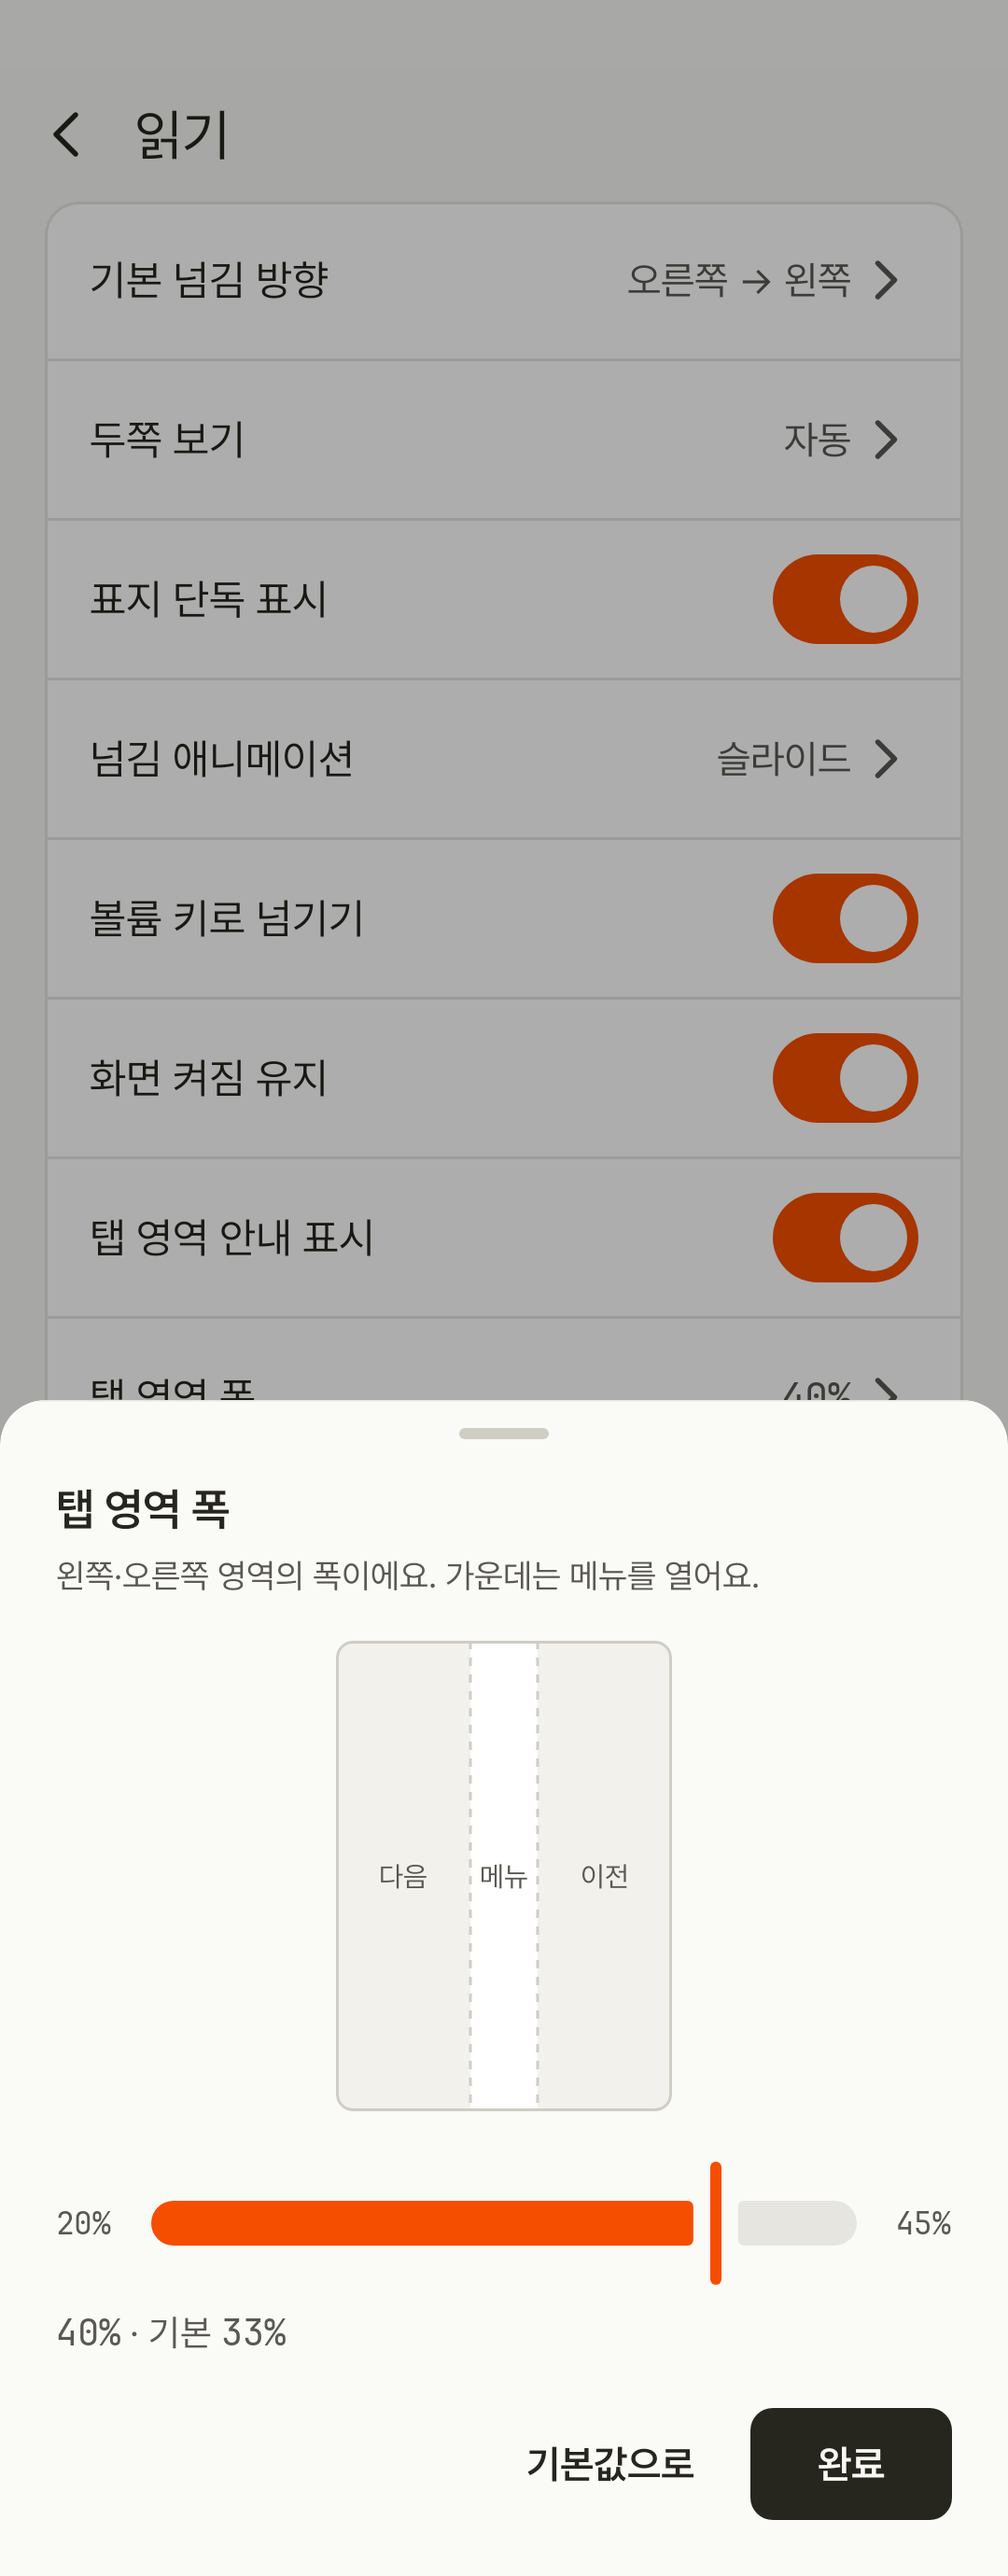
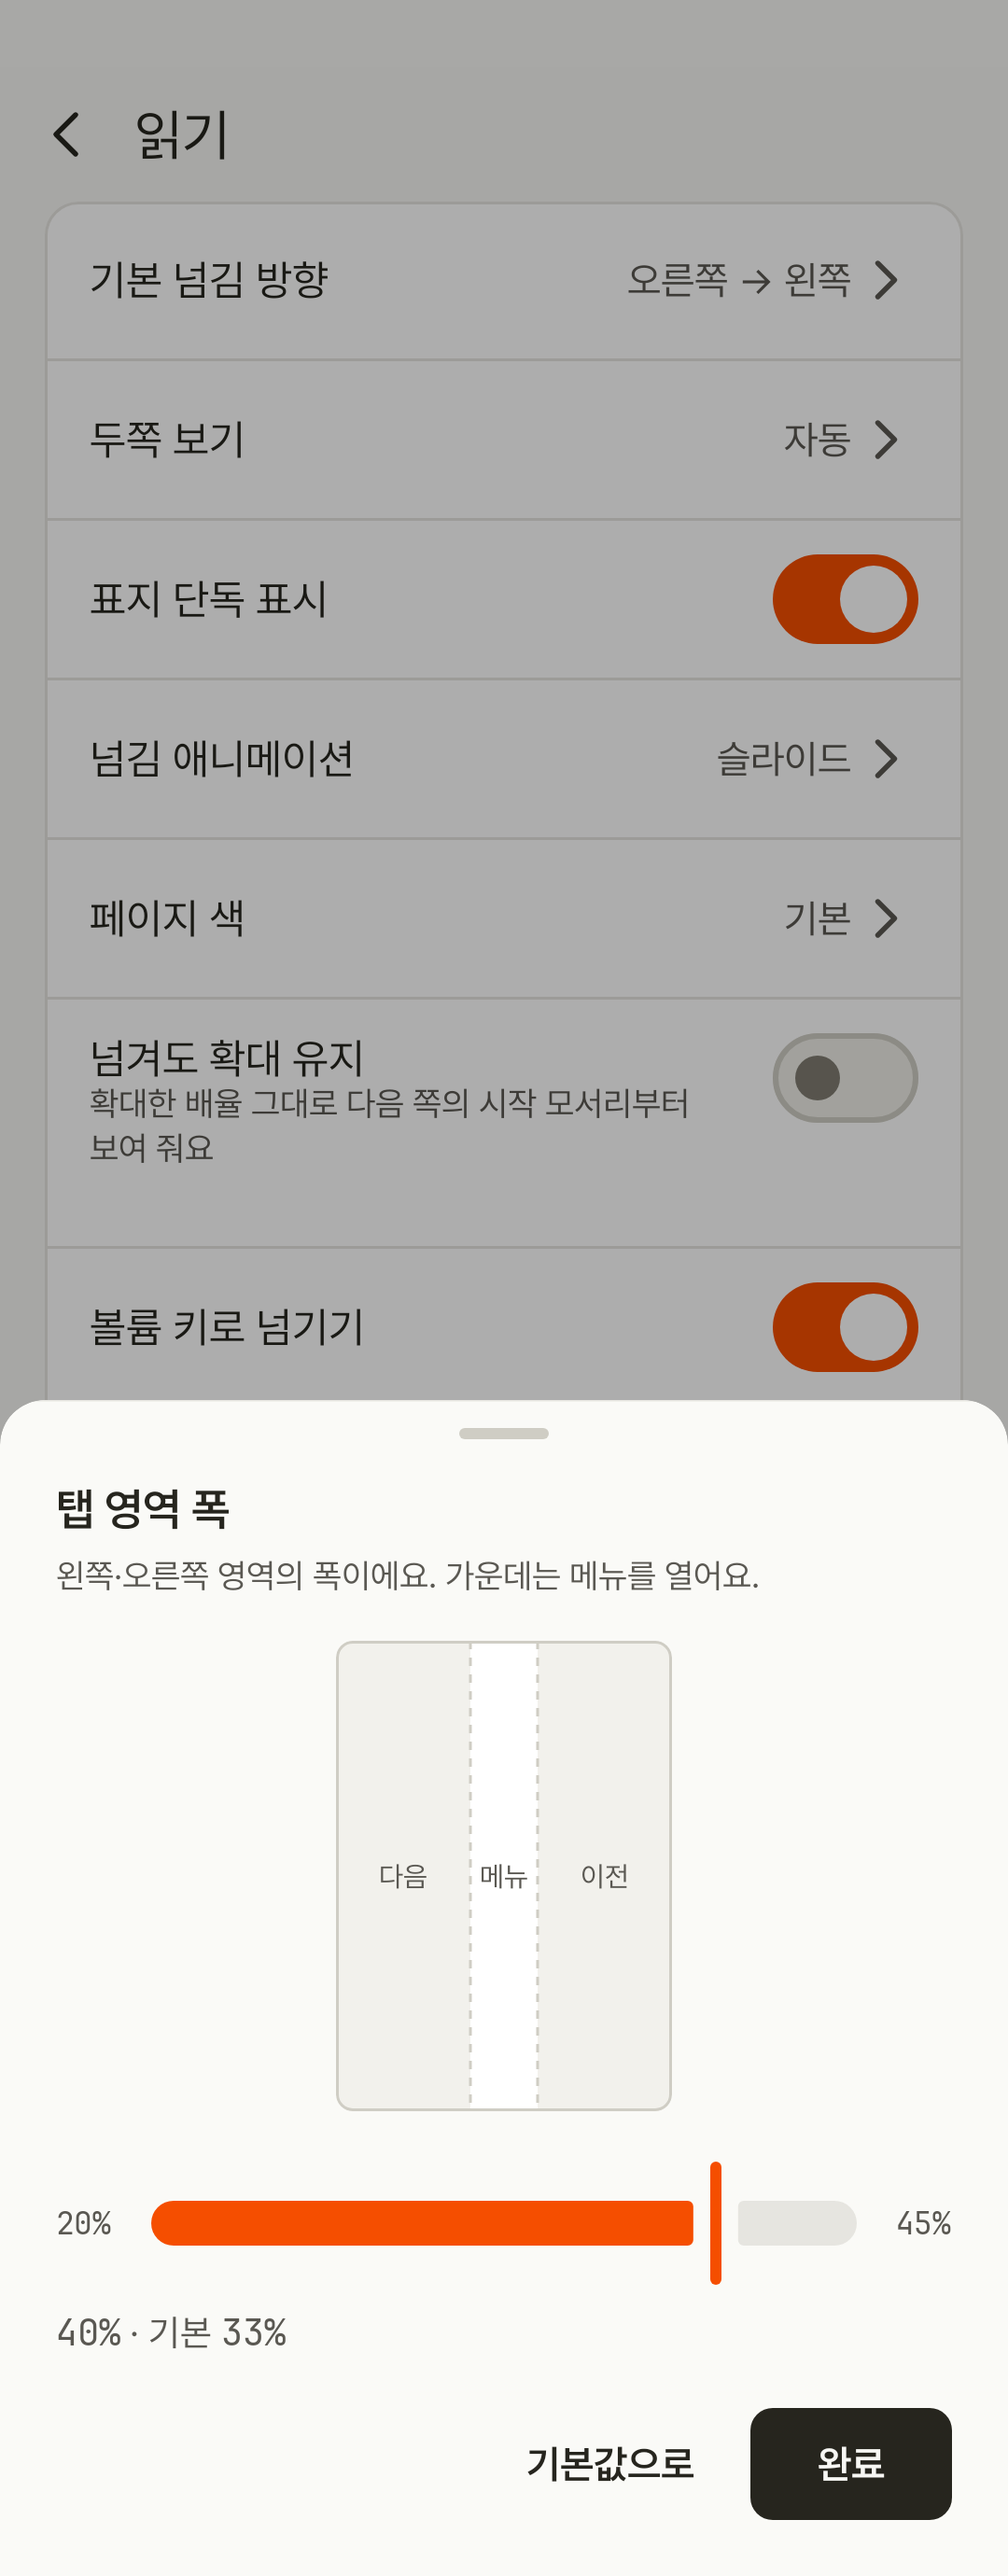
fix(settings): rename display mode to page color
Rename the reading setting to 페이지 색 / Page color with original,
inverted and sepia options, and add screenshot coverage for the row,
the choice dialog and the filtered reader page.

Re-record the reading settings and tap-width baselines shifted by the
row.

diff --git a/app/src/test/java/org/parkjw/apps/pdfbook/screenshot/PageColorScreenshotsTest.kt b/app/src/test/java/org/parkjw/apps/pdfbook/screenshot/PageColorScreenshotsTest.kt
@@ -1,0 +1,130 @@
+package org.parkjw.apps.pdfbook.screenshot
+
+import androidx.compose.foundation.layout.fillMaxSize
+import androidx.compose.foundation.pager.rememberPagerState
+import androidx.compose.ui.Modifier
+import androidx.test.ext.junit.runners.AndroidJUnit4
+import com.github.takahirom.roborazzi.captureRoboImage
+import org.junit.Assume.assumeTrue
+import org.junit.Before
+import org.junit.Test
+import org.junit.runner.RunWith
+import org.parkjw.apps.pdfbook.ReaderScreen
+import org.parkjw.apps.pdfbook.settings.AppSettings
+import org.parkjw.apps.pdfbook.settings.DisplayMode
+import org.parkjw.apps.pdfbook.settings.SettingsScreen
+import org.parkjw.apps.pdfbook.settings.SettingsSubScreen
+import org.parkjw.apps.pdfbook.settings.ThemeMode
+import org.parkjw.apps.pdfbook.spreads
+import org.parkjw.apps.pdfbook.ui.theme.ReaderBackground
+import org.robolectric.annotation.Config
+import org.robolectric.annotation.GraphicsMode
+
+@RunWith(AndroidJUnit4::class)
+@GraphicsMode(GraphicsMode.Mode.NATIVE)
+@Config(sdk = [37])
+class PageColorScreenshotsTest {
+    @Before
+    fun onlyWhenRecordingOrVerifying() {
+        assumeTrue(
+            System.getProperty("roborazzi.test.record") == "true" ||
+                System.getProperty("roborazzi.test.verify") == "true" ||
+                System.getProperty("roborazzi.test.compare") == "true",
+        )
+    }
+
+    @Test
+    @Config(qualifiers = FOLDED_QUALIFIERS)
+    fun pageColorRowLightFolded() {
+        captureSettings("settings-page-color-light-folded.png", dark = false)
+    }
+
+    @Test
+    @Config(qualifiers = FOLDED_NIGHT_QUALIFIERS)
+    fun pageColorRowDarkFolded() {
+        captureSettings("settings-page-color-dark-folded.png", dark = true)
+    }
+
+    @Test
+    @Config(qualifiers = FOLDED_EN_QUALIFIERS)
+    fun pageColorRowLightFoldedEn() {
+        captureSettings("settings-page-color-light-folded-en.png", dark = false)
+    }
+
+    @Test
+    @Config(qualifiers = FOLDED_QUALIFIERS)
+    fun pageColorDialogLightFolded() {
+        captureSettings("settings-page-color-dialog-light-folded.png", dark = false, dialog = true)
+    }
+
+    @Test
+    @Config(qualifiers = FOLDED_NIGHT_QUALIFIERS)
+    fun pageColorDialogDarkFolded() {
+        captureSettings("settings-page-color-dialog-dark-folded.png", dark = true, dialog = true)
+    }
+
+    @Test
+    @Config(qualifiers = FOLDED_EN_QUALIFIERS)
+    fun pageColorDialogLightFoldedEn() {
+        captureSettings("settings-page-color-dialog-light-folded-en.png", dark = false, dialog = true)
+    }
+
+    @Test
+    @Config(qualifiers = FOLDED_QUALIFIERS)
+    fun readerInvertedLightFolded() {
+        captureReader("reader-page-color-inverted-light-folded.png", DisplayMode.Invert)
+    }
+
+    @Test
+    @Config(qualifiers = FOLDED_QUALIFIERS)
+    fun readerSepiaLightFolded() {
+        captureReader("reader-page-color-sepia-light-folded.png", DisplayMode.Sepia)
+    }
+
+    private fun captureSettings(file: String, dark: Boolean, dialog: Boolean = false) {
+        captureRoboImage(file) {
+            ScreenshotTheme(dark) {
+                SettingsScreen(
+                    settings = AppSettings(
+                        themeMode = if (dark) ThemeMode.Dark else ThemeMode.Light,
+                        displayMode = DisplayMode.Invert,
+                    ),
+                    onSettingsChange = {},
+                    versionName = "0.3.0",
+                    versionCode = 4L,
+                    modifier = Modifier.fillMaxSize(),
+                    initialSubScreen = SettingsSubScreen.Reading,
+                    initiallyShowDisplayChoice = dialog,
+                )
+            }
+        }
+    }
+
+    private fun captureReader(file: String, displayMode: DisplayMode) {
+        val pageCount = 12
+        val pageSpreads = spreads(pageCount, twoPage = false, coverAlone = true)
+        captureRoboImage(file) {
+            ScreenshotTheme(dark = false, systemBarsColor = ReaderBackground) {
+                ReaderScreen(
+                    renderer = SolidPageBitmaps(
+                        pageCount = pageCount,
+                        pageColor = 0xFFF7F2E8.toInt(),
+                        accentColor = 0xFF3D5A80.toInt(),
+                    ),
+                    pagerState = rememberPagerState(pageCount = { pageSpreads.size }),
+                    spreads = pageSpreads,
+                    title = "샘플 책",
+                    pageCount = pageCount,
+                    currentPage = 1,
+                    twoPage = false,
+                    onBack = {},
+                    onDirectionChange = {},
+                    overlayVisible = true,
+                    showTapZoneGuide = false,
+                    displayMode = displayMode,
+                    modifier = Modifier.fillMaxSize(),
+                )
+            }
+        }
+    }
+}

diff --git a/app/src/main/java/org/parkjw/apps/pdfbook/settings/SettingsScreen.kt b/app/src/main/java/org/parkjw/apps/pdfbook/settings/SettingsScreen.kt
@@ -102,6 +102,7 @@ fun SettingsScreen(
     initialSubScreen: SettingsSubScreen = SettingsSubScreen.Main,
     initiallyShowStartChoice: Boolean = false,
     initiallyShowTapWidthSheet: Boolean = false,
+    initiallyShowDisplayChoice: Boolean = false,
 ) {
     var subScreen by rememberSaveable { mutableStateOf(initialSubScreen.name) }
     var showStartChoice by rememberSaveable { mutableStateOf(initiallyShowStartChoice) }
@@ -112,6 +113,7 @@ fun SettingsScreen(
             onSettingsChange = onSettingsChange,
             onBack = { subScreen = SettingsSubScreen.Main.name },
             initiallyShowTapWidthSheet = initiallyShowTapWidthSheet,
+            initiallyShowDisplayChoice = initiallyShowDisplayChoice,
             modifier = modifier,
         )
         SettingsSubScreen.OpenSource.name -> OpenSourceLicensesScreen(
@@ -342,10 +344,13 @@ private fun ReadingSettingsScreen(
     onSettingsChange: ((AppSettings) -> AppSettings) -> Unit,
     onBack: () -> Unit,
     initiallyShowTapWidthSheet: Boolean,
+    initiallyShowDisplayChoice: Boolean,
     modifier: Modifier = Modifier,
 ) {
     BackHandler(onBack = onBack)
-    var choice by rememberSaveable { mutableStateOf<String?>(null) }
+    var choice by rememberSaveable {
+        mutableStateOf<String?>(if (initiallyShowDisplayChoice) SettingsChoice.Display.name else null)
+    }
     var showTapWidthSheet by rememberSaveable { mutableStateOf(initiallyShowTapWidthSheet) }
     val directionOptions = listOf(
         ReadingDirection.RTL to stringResource(R.string.settings_direction_rtl),

diff --git a/docs/agents/feature-map.md b/docs/agents/feature-map.md
@@ -68,7 +68,7 @@ Source paths are relative to `app/src/main/java/org/parkjw/apps/pdfbook/`; tests
 | General: start screen, theme, language | Settings → rows by text | text only | `settings/SettingsScreen.kt`, `settings/AppLocale.kt` | `AppLocaleTest`, `SettingsBUiTest` |
 | Reading settings | Settings → `settings_reading_entry` | `settings_reading_screen`, `settings_reading_back` | `settings/SettingsScreen.kt` | `SettingsBUiTest` |
 | Keep zoom when turning pages (SPEC-6) | Reading settings → "Keep zoom when turning pages" switch | text only | `settings/SettingsScreen.kt`, `settings/AppSettings.kt` | `KeepZoomSettingsTest`, `SettingsBUiTest` |
-| Display mode: default, invert, sepia | Reading settings → "Display mode" row → choose | text only | `settings/SettingsScreen.kt`, `settings/AppSettings.kt`, `DisplayMode.kt`, `ReaderScreen.kt` | `DisplayModeTest`, `SettingsBUiTest` |
+| Page color: original, inverted, sepia | Reading settings → "페이지 색 / Page color" row → choose | text only | `settings/SettingsScreen.kt`, `settings/AppSettings.kt`, `DisplayMode.kt`, `ReaderScreen.kt` | `DisplayModeTest`, `SettingsBUiTest`, `PageColorScreenshotsTest` |
 | Keep screen on | Reading settings → "화면 켜짐 유지" switch | text only | `settings/SettingsScreen.kt`, `settings/AppSettings.kt`, `ReaderScreen.kt` | `KeepScreenOnTest` |
 | Tap zone width, settings (SPEC-2 TW-1/2/4) | Reading settings → `settings_tap_width_row` | `settings_tap_width_row`, `tap_zone_width_sheet` | `settings/SettingsScreen.kt`, `TapZoneWidthSheet.kt` | `TapZoneWidthSettingsTest`, `TapZoneWidthSheetThemeTest` |
 | Storage: hidden items, dot files | Settings → `settings_hidden_items` | `settings_hidden_items` | `settings/StorageSettings.kt`, `hidden/HiddenItemsScreen.kt` | `StorageSettingsTest`, `HiddenItemsScreenTest` |
@@ -88,6 +88,6 @@ Source paths are relative to `app/src/main/java/org/parkjw/apps/pdfbook/`; tests
 | `scripts/verify.sh book-list` | Book list sheet with both generated books | BM-1 |
 | `scripts/verify.sh settings` | Settings, then reading settings | – |
 | `scripts/verify.sh keep-zoom` | Reading settings with "Keep zoom when turning pages" off, then on | ZL-3/ZL-4 setting |
-| `scripts/verify.sh display-mode` | Reading settings with "Display mode" on default, then a book opened in Invert | #57 |
+| `scripts/verify.sh display-mode` | Reading settings with "페이지 색 / Page color" on original, then a book opened in inverted | #57 |
 
 The test books are generated by `scripts/make-test-pdf.py` (numbered, coloured pages). Never use real or copyrighted books for evidence.
